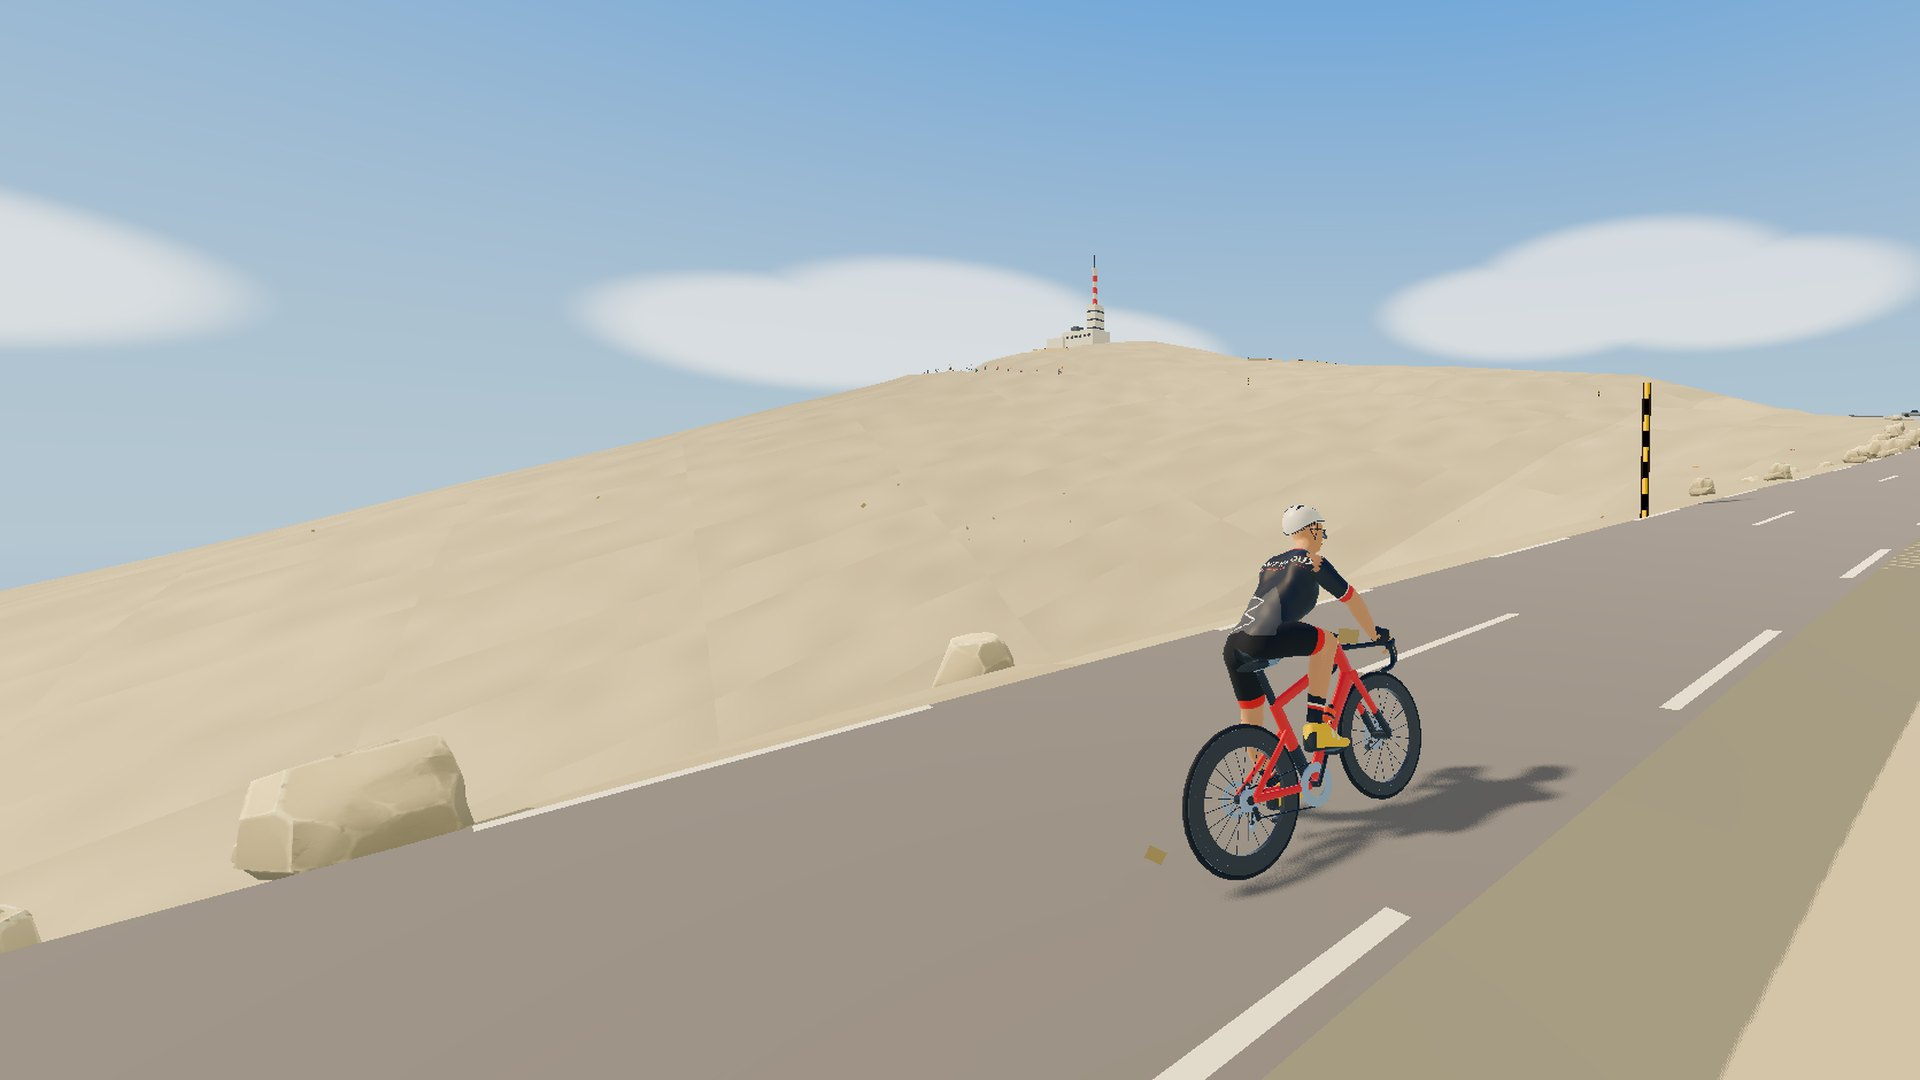
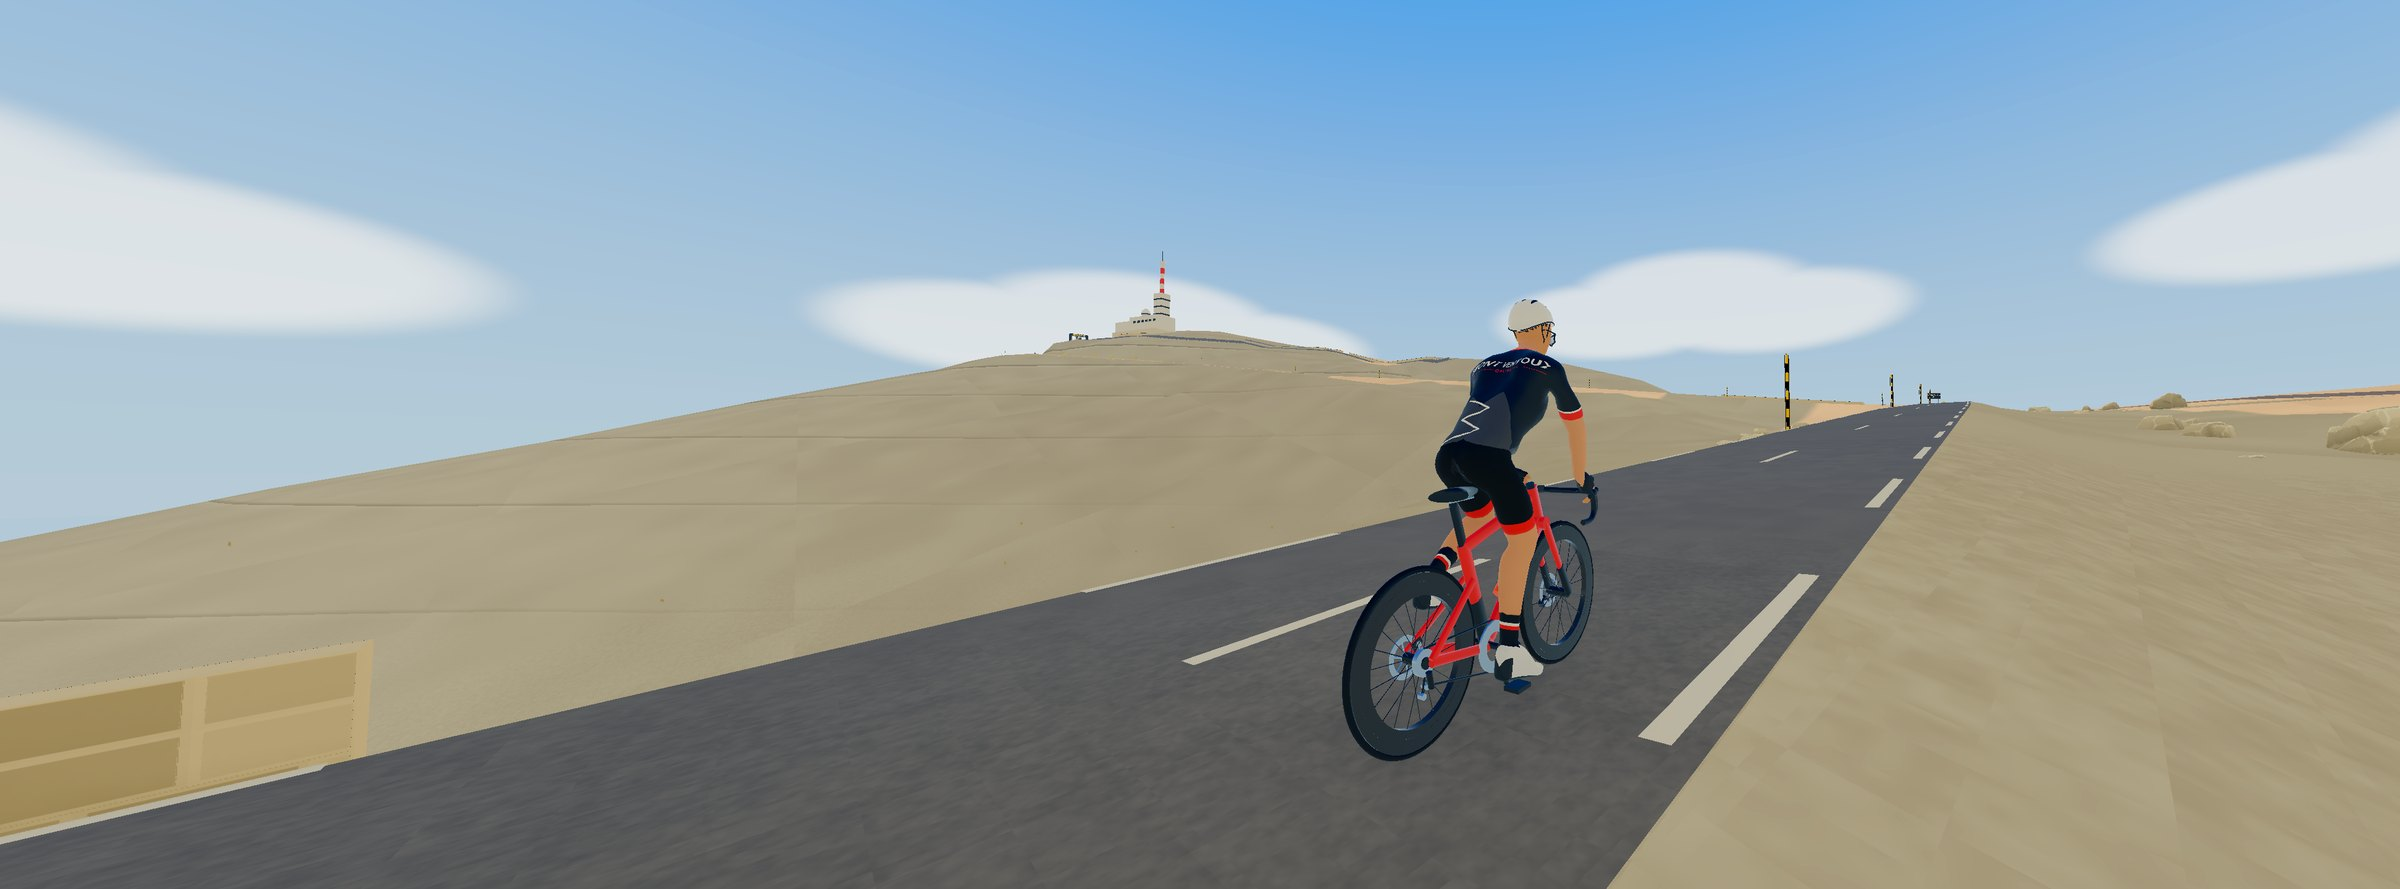
En-tête sur une ligne (texte plus grand, 8 liens) ; nouvelle image d'accueil (maillot MVO, cycliste en pédalage, lumière de fin de journée)

diff --git a/style.css b/style.css
@@ -28,23 +28,26 @@ header.top {
   background: rgba(13, 13, 15, 0.92); backdrop-filter: blur(8px);
   border-bottom: 1px solid var(--line);
 }
-header.top .wrap { display: flex; align-items: center; justify-content: space-between; height: 64px; gap: 16px; }
+header.top .wrap { display: flex; align-items: center; justify-content: space-between; height: 68px; gap: 24px; }
 header.top .brand { display: flex; align-items: center; gap: 10px; text-decoration: none; font-weight: 800; letter-spacing: 0.02em; }
-header.top .brand img { width: 36px; height: 36px; border-radius: 8px; }
-header.top nav { display: flex; gap: 22px; flex-wrap: wrap; }
-header.top nav a { text-decoration: none; color: var(--muted); font-weight: 600; font-size: 15px; }
-header.top nav a:hover { color: var(--text); }
+header.top .brand { font-size: 18px; }
+header.top .brand img { width: 38px; height: 38px; border-radius: 8px; }
+/* Une seule ligne : les liens se partagent l'espace entre le nom et le choix de langue. */
+header.top nav { display: flex; gap: 26px; flex-wrap: nowrap; margin-left: auto; }
+header.top nav a { text-decoration: none; color: #d4d7dc; font-weight: 600; font-size: 16px; white-space: nowrap;
+  padding: 6px 0; border-bottom: 2px solid transparent; transition: color .15s, border-color .15s; }
+header.top nav a:hover { color: #fff; border-bottom-color: var(--red); }
 header.top .brand { white-space: nowrap; }
 /* Menu du téléphone : bouton ☰ qui déplie la navigation sous l'en-tête. */
 header.top .menu { display: none; background: none; border: 1px solid var(--line); border-radius: 10px; color: var(--text);
   width: 44px; height: 40px; font-size: 22px; line-height: 1; cursor: pointer; padding: 0; }
 header.top .right { display: flex; align-items: center; gap: 10px; }
-@media (max-width: 900px) {
+@media (max-width: 1060px) {
   header.top .menu { display: block; }
-  header.top nav.main { display: none; position: absolute; top: 64px; left: 0; right: 0; flex-direction: column; gap: 0;
+  header.top nav.main { display: none; position: absolute; top: 68px; left: 0; right: 0; flex-direction: column; gap: 0;
     background: rgba(13, 13, 15, 0.98); border-bottom: 1px solid var(--line); padding: 6px 0 10px; }
   header.top.open nav.main { display: flex; }
-  header.top nav.main a { padding: 13px 20px; font-size: 17px; color: var(--text); }
+  header.top nav.main a { padding: 13px 20px; font-size: 17px; color: var(--text); border-bottom: 0; }
   header.top .brand { font-size: 16px; }
 }
 @media (max-width: 720px) {
@@ -55,7 +58,7 @@ header.top .right { display: flex; align-items: center; gap: 10px; }
 /* Bandeau d'accueil */
 .hero { position: relative; min-height: 86vh; display: flex; align-items: flex-end; overflow: hidden; }
 /* Image élargie et calée à gauche : la cycliste (au centre de la photo) passe à droite du texte. */
-.hero > img.bg { position: absolute; top: 0; left: 0; width: 125%; max-width: none; height: 100%; object-fit: cover; object-position: left center; filter: brightness(0.85) saturate(1.08); }
+.hero > img.bg { position: absolute; top: 0; left: 0; width: 125%; max-width: none; height: 100%; object-fit: cover; object-position: 72% center; filter: brightness(0.85) saturate(1.08); }
 .hero::after { content: ""; position: absolute; inset: 0; background:
   linear-gradient(90deg, rgba(13,13,15,0.78) 0%, rgba(13,13,15,0.45) 38%, rgba(13,13,15,0) 62%),
   linear-gradient(180deg, rgba(13,13,15,0) 55%, rgba(13,13,15,0.95) 100%); }

diff --git a/index.html b/index.html
@@ -6,7 +6,7 @@
   <title>Mont Ventoux Online — simulateur vélo pour home trainer connecté : le Mont Ventoux et le Vaucluse</title>
   <meta name="description" content="Jeu et simulateur de vélo pour home trainer connecté : le Mont Ventoux par Bédoin, Malaucène et Sault, les Dentelles, Gordes et la Via Venaissia, 27 parcours réels du Vaucluse en Provence. Relief IGN, météo du jour, entraînement ERG. Essai gratuit, même au clavier.">
   <link rel="icon" type="image/png" href="img/icone.png">
-  <link rel="stylesheet" href="style.css?v=12">
+  <link rel="stylesheet" href="style.css?v=14">
   <meta property="og:title" content="Mont Ventoux Online">
   <meta property="og:description" content="Le Géant de Provence et tout le Vaucluse, sur votre home trainer connecté.">
   <meta property="og:image" content="https://montventouxonline.fr/img/hero.jpg">
@@ -32,10 +32,8 @@
       <a href="#ventoux">Le Géant</a>
       <a href="histoire.html">Histoire</a>
       <a href="#parcours">Parcours</a>
-      <a href="#maquette">Mode Maquette</a>
       <a href="#jeu">Le jeu</a>
       <a href="#entrainement">Entraînement</a>
-      <a href="#defi">Défi du mois</a>
       <a href="#tarifs">Tarifs</a>
       <a href="#faq">FAQ</a>
       <a href="contact.html">Contact</a>
@@ -48,7 +46,7 @@
 </header>
 
 <div class="hero">
-  <img class="bg" src="img/hero.jpg?v=4" alt="Un cycliste au maillot MVO dans le pierrier du Mont Ventoux, l'observatoire au sommet">
+  <img class="bg" src="img/hero.jpg?v=5" alt="Un cycliste au maillot MVO dans le pierrier du Mont Ventoux, l'observatoire au sommet">
   <div class="wrap">
     <img class="logo" src="img/logo.png" alt="Mont Ventoux Online">
     <div class="soon-badge">Bientôt disponible • bêta en cours</div>

diff --git a/en.html b/en.html
@@ -6,7 +6,7 @@
   <title>Mont Ventoux Online — cycling simulator for smart trainers: Mont Ventoux and Provence</title>
   <meta name="description" content="Indoor cycling game and simulator for smart trainers: Mont Ventoux via Bédoin, Malaucène and Sault, the Dentelles, Gordes and the Via Venaissia, 27 real routes of the Vaucluse, Provence. IGN terrain, today's weather, ERG training. Free trial, even with the keyboard.">
   <link rel="icon" type="image/png" href="img/icone.png">
-  <link rel="stylesheet" href="style.css?v=12">
+  <link rel="stylesheet" href="style.css?v=14">
   <meta property="og:title" content="Mont Ventoux Online">
   <meta property="og:description" content="The Giant of Provence and the whole Vaucluse, on your smart trainer.">
   <meta property="og:image" content="https://montventouxonline.fr/img/hero.jpg">
@@ -32,10 +32,8 @@
       <a href="#ventoux">The Giant</a>
       <a href="en-history.html">History</a>
       <a href="#parcours">Routes</a>
-      <a href="#maquette">Diorama mode</a>
       <a href="#jeu">The game</a>
       <a href="#entrainement">Training</a>
-      <a href="#defi">Monthly challenge</a>
       <a href="#tarifs">Pricing</a>
       <a href="#faq">FAQ</a>
       <a href="en-contact.html">Contact</a>
@@ -48,7 +46,7 @@
 </header>
 
 <div class="hero">
-  <img class="bg" src="img/hero.jpg?v=4" alt="A rider in an MVO jersey on the white scree of Mont Ventoux, the observatory at the summit">
+  <img class="bg" src="img/hero.jpg?v=5" alt="A rider in an MVO jersey on the white scree of Mont Ventoux, the observatory at the summit">
   <div class="wrap">
     <img class="logo" src="img/logo.png" alt="Mont Ventoux Online">
     <div class="soon-badge">Coming soon • beta in progress</div>

diff --git a/sault.html b/sault.html
@@ -6,7 +6,7 @@
   <title>Mont Ventoux par Sault — Mont Ventoux Online</title>
   <meta name="description" content="Le Mont Ventoux par Sault sur votre home trainer connecté : 25,9 km, 1 210 m de dénivelé, les champs de lavande, la forêt, le Chalet Reynard et le pierrier jusqu'à l'observatoire.">
   <link rel="icon" type="image/png" href="img/icone.png">
-  <link rel="stylesheet" href="style.css?v=12">
+  <link rel="stylesheet" href="style.css?v=14">
   <meta property="og:title" content="Mont Ventoux par Sault — Mont Ventoux Online">
   <meta property="og:description" content="Le Mont Ventoux par Sault sur votre home trainer connecté : 25,9 km, 1 210 m de dénivelé, les champs de lavande, la forêt, le Chalet Reynard et le pierrier jusqu'à l'observatoire.">
   <meta property="og:image" content="https://montventouxonline.fr/img/maquette_sault.jpg">
@@ -29,8 +29,6 @@
       <a href="index.html#ventoux">Le Géant</a>
       <a href="histoire.html">Histoire</a>
       <a href="index.html#parcours">Parcours</a>
-      <a href="index.html#maquette">Mode Maquette</a>
-      <a href="index.html#defi">Défi du mois</a>
       <a href="index.html#tarifs">Tarifs</a>
       <a href="index.html#faq">FAQ</a>
     </nav>

diff --git a/bedoin.html b/bedoin.html
@@ -6,7 +6,7 @@
   <title>Mont Ventoux par Bédoin — Mont Ventoux Online</title>
   <meta name="description" content="Le Mont Ventoux par Bédoin sur votre home trainer connecté : 21,4 km, 1 587 m de dénivelé, la forêt puis le pierrier jusqu'à l'observatoire, kilomètre par kilomètre.">
   <link rel="icon" type="image/png" href="img/icone.png">
-  <link rel="stylesheet" href="style.css?v=12">
+  <link rel="stylesheet" href="style.css?v=14">
   <meta property="og:title" content="Mont Ventoux par Bédoin — Mont Ventoux Online">
   <meta property="og:description" content="Le Mont Ventoux par Bédoin sur votre home trainer connecté : 21,4 km, 1 587 m de dénivelé, la forêt puis le pierrier jusqu'à l'observatoire, kilomètre par kilomètre.">
   <meta property="og:image" content="https://montventouxonline.fr/img/maquette_foret.jpg">
@@ -29,8 +29,6 @@
       <a href="index.html#ventoux">Le Géant</a>
       <a href="histoire.html">Histoire</a>
       <a href="index.html#parcours">Parcours</a>
-      <a href="index.html#maquette">Mode Maquette</a>
-      <a href="index.html#defi">Défi du mois</a>
       <a href="index.html#tarifs">Tarifs</a>
       <a href="index.html#faq">FAQ</a>
     </nav>

diff --git a/malaucene.html b/malaucene.html
@@ -6,7 +6,7 @@
   <title>Mont Ventoux par Malaucène — Mont Ventoux Online</title>
   <meta name="description" content="Le Mont Ventoux par Malaucène sur votre home trainer connecté : 21,1 km, 1 565 m de dénivelé, la face nord et ses rampes à 11 %, le Mont Serein et l'observatoire.">
   <link rel="icon" type="image/png" href="img/icone.png">
-  <link rel="stylesheet" href="style.css?v=12">
+  <link rel="stylesheet" href="style.css?v=14">
   <meta property="og:title" content="Mont Ventoux par Malaucène — Mont Ventoux Online">
   <meta property="og:description" content="Le Mont Ventoux par Malaucène sur votre home trainer connecté : 21,1 km, 1 565 m de dénivelé, la face nord et ses rampes à 11 %, le Mont Serein et l'observatoire.">
   <meta property="og:image" content="https://montventouxonline.fr/img/maquette_serein.jpg">
@@ -29,8 +29,6 @@
       <a href="index.html#ventoux">Le Géant</a>
       <a href="histoire.html">Histoire</a>
       <a href="index.html#parcours">Parcours</a>
-      <a href="index.html#maquette">Mode Maquette</a>
-      <a href="index.html#defi">Défi du mois</a>
       <a href="index.html#tarifs">Tarifs</a>
       <a href="index.html#faq">FAQ</a>
     </nav>

diff --git a/histoire.html b/histoire.html
@@ -6,7 +6,7 @@
   <title>Le Mont Ventoux et le Tour de France : vainqueurs, records et légendes — Mont Ventoux Online</title>
   <meta name="description" content="Histoire cycliste du Mont Ventoux : tous les vainqueurs d'étape du Tour de France au sommet, les records d'ascension depuis Bédoin, Tom Simpson, Merckx, Froome, Pantani, la vitesse en descente et le mistral. À revivre sur votre home trainer connecté.">
   <link rel="icon" type="image/png" href="img/icone.png">
-  <link rel="stylesheet" href="style.css?v=12">
+  <link rel="stylesheet" href="style.css?v=14">
   <style>
     .histo { width: 100%; border-collapse: collapse; margin: 0 0 12px; font-size: 16px; }
     .histo th, .histo td { text-align: left; padding: 10px 12px; border-bottom: 1px solid var(--line); vertical-align: top; }
@@ -46,8 +46,6 @@
       <a href="index.html#ventoux">Le Géant</a>
       <a href="histoire.html">Histoire</a>
       <a href="index.html#parcours">Parcours</a>
-      <a href="index.html#maquette">Mode Maquette</a>
-      <a href="index.html#defi">Défi du mois</a>
       <a href="index.html#tarifs">Tarifs</a>
       <a href="index.html#faq">FAQ</a>
     </nav>

diff --git a/en-bedoin.html b/en-bedoin.html
@@ -6,7 +6,7 @@
   <title>Mont Ventoux via Bédoin — Mont Ventoux Online</title>
   <meta name="description" content="Mont Ventoux via Bédoin on your smart trainer: 21.4 km, 1,587 m of climbing, the forest then the white scree up to the observatory, kilometre by kilometre.">
   <link rel="icon" type="image/png" href="img/icone.png">
-  <link rel="stylesheet" href="style.css?v=12">
+  <link rel="stylesheet" href="style.css?v=14">
   <meta property="og:title" content="Mont Ventoux via Bédoin — Mont Ventoux Online">
   <meta property="og:description" content="Mont Ventoux via Bédoin on your smart trainer: 21.4 km, 1,587 m of climbing, the forest then the white scree up to the observatory, kilometre by kilometre.">
   <meta property="og:image" content="https://montventouxonline.fr/img/maquette_foret.jpg">
@@ -29,8 +29,6 @@
       <a href="en.html#ventoux">The Giant</a>
       <a href="en-history.html">History</a>
       <a href="en.html#parcours">Routes</a>
-      <a href="en.html#maquette">Diorama mode</a>
-      <a href="en.html#defi">Monthly challenge</a>
       <a href="en.html#tarifs">Pricing</a>
       <a href="en.html#faq">FAQ</a>
     </nav>

diff --git a/en-sault.html b/en-sault.html
@@ -6,7 +6,7 @@
   <title>Mont Ventoux via Sault — Mont Ventoux Online</title>
   <meta name="description" content="Mont Ventoux via Sault on your smart trainer: 25.9 km, 1,210 m of climbing, lavender fields, the forest, Chalet Reynard and the scree up to the observatory.">
   <link rel="icon" type="image/png" href="img/icone.png">
-  <link rel="stylesheet" href="style.css?v=12">
+  <link rel="stylesheet" href="style.css?v=14">
   <meta property="og:title" content="Mont Ventoux via Sault — Mont Ventoux Online">
   <meta property="og:description" content="Mont Ventoux via Sault on your smart trainer: 25.9 km, 1,210 m of climbing, lavender fields, the forest, Chalet Reynard and the scree up to the observatory.">
   <meta property="og:image" content="https://montventouxonline.fr/img/maquette_sault.jpg">
@@ -29,8 +29,6 @@
       <a href="en.html#ventoux">The Giant</a>
       <a href="en-history.html">History</a>
       <a href="en.html#parcours">Routes</a>
-      <a href="en.html#maquette">Diorama mode</a>
-      <a href="en.html#defi">Monthly challenge</a>
       <a href="en.html#tarifs">Pricing</a>
       <a href="en.html#faq">FAQ</a>
     </nav>

diff --git a/en-malaucene.html b/en-malaucene.html
@@ -6,7 +6,7 @@
   <title>Mont Ventoux via Malaucène — Mont Ventoux Online</title>
   <meta name="description" content="Mont Ventoux via Malaucène on your smart trainer: 21.1 km, 1,565 m of climbing, the north face and its 11% ramps, Mont Serein and the observatory.">
   <link rel="icon" type="image/png" href="img/icone.png">
-  <link rel="stylesheet" href="style.css?v=12">
+  <link rel="stylesheet" href="style.css?v=14">
   <meta property="og:title" content="Mont Ventoux via Malaucène — Mont Ventoux Online">
   <meta property="og:description" content="Mont Ventoux via Malaucène on your smart trainer: 21.1 km, 1,565 m of climbing, the north face and its 11% ramps, Mont Serein and the observatory.">
   <meta property="og:image" content="https://montventouxonline.fr/img/maquette_serein.jpg">
@@ -29,8 +29,6 @@
       <a href="en.html#ventoux">The Giant</a>
       <a href="en-history.html">History</a>
       <a href="en.html#parcours">Routes</a>
-      <a href="en.html#maquette">Diorama mode</a>
-      <a href="en.html#defi">Monthly challenge</a>
       <a href="en.html#tarifs">Pricing</a>
       <a href="en.html#faq">FAQ</a>
     </nav>

diff --git a/en-history.html b/en-history.html
@@ -6,7 +6,7 @@
   <title>Mont Ventoux and the Tour de France: winners, records and legends — Mont Ventoux Online</title>
   <meta name="description" content="Mont Ventoux cycling history: every Tour de France stage winner at the summit, the fastest climbs from Bédoin, Tom Simpson, Merckx, Froome, Pantani, descent speeds and the mistral. Ride it at home on your smart trainer.">
   <link rel="icon" type="image/png" href="img/icone.png">
-  <link rel="stylesheet" href="style.css?v=12">
+  <link rel="stylesheet" href="style.css?v=14">
   <style>
     .histo { width: 100%; border-collapse: collapse; margin: 0 0 12px; font-size: 16px; }
     .histo th, .histo td { text-align: left; padding: 10px 12px; border-bottom: 1px solid var(--line); vertical-align: top; }
@@ -46,8 +46,6 @@
       <a href="en.html#ventoux">The Giant</a>
       <a href="en-history.html">History</a>
       <a href="en.html#parcours">Routes</a>
-      <a href="en.html#maquette">Diorama mode</a>
-      <a href="en.html#defi">Monthly challenge</a>
       <a href="en.html#tarifs">Pricing</a>
       <a href="en.html#faq">FAQ</a>
     </nav>

diff --git a/confidentialite.html b/confidentialite.html
@@ -6,7 +6,7 @@
   <title>Confidentialité — Mont Ventoux Online</title>
   <meta name="description" content="Politique de confidentialité de Mont Ventoux Online : données collectées par le jeu et le site, leur usage et vos droits.">
   <link rel="icon" type="image/png" href="img/icone.png">
-  <link rel="stylesheet" href="style.css?v=12">
+  <link rel="stylesheet" href="style.css?v=14">
   <link rel="canonical" href="https://montventouxonline.fr/confidentialite.html">
   <meta property="og:title" content="Confidentialité — Mont Ventoux Online">
   <meta property="og:description" content="Politique de confidentialité de Mont Ventoux Online : données collectées par le jeu et le site, leur usage et vos droits.">
